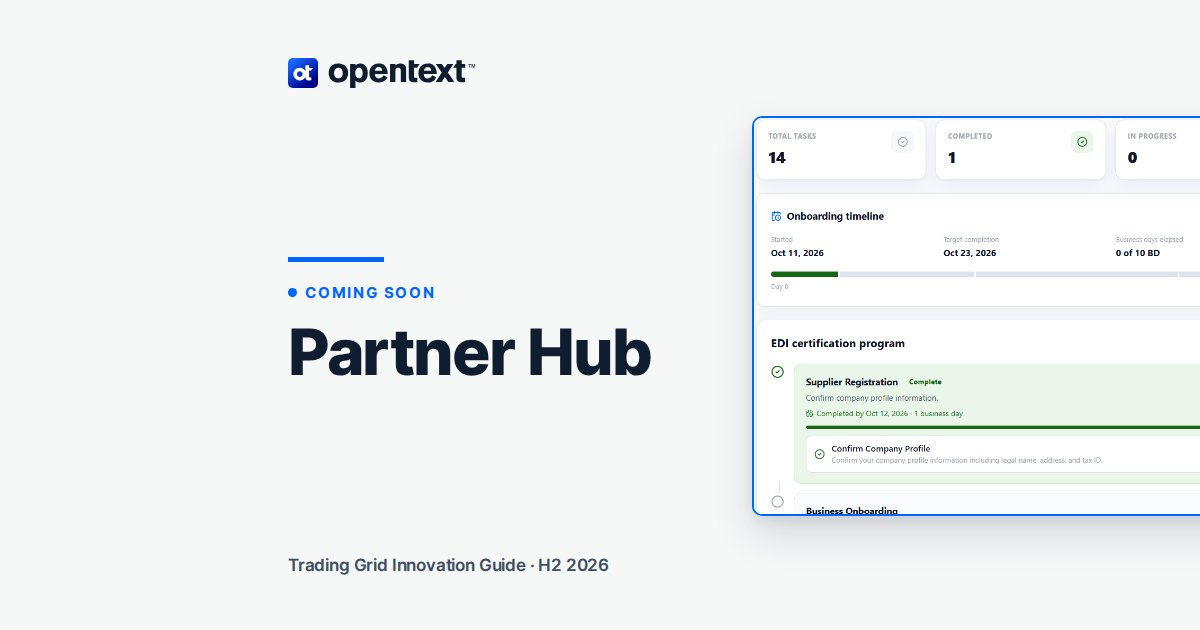
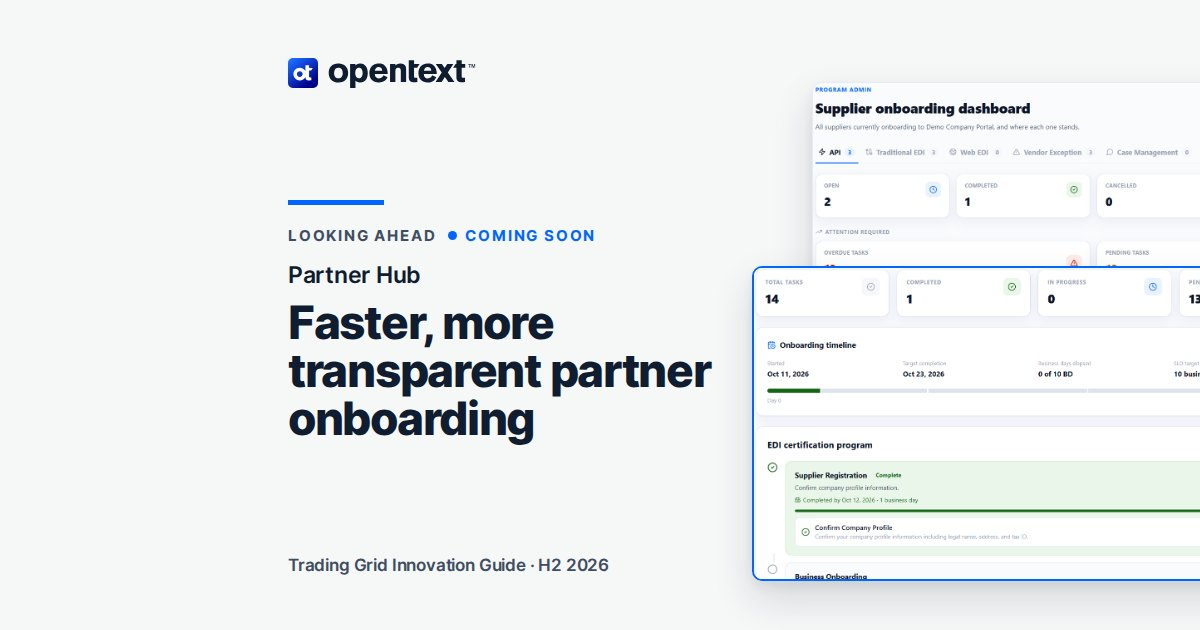
Guide v127: Partner Hub moves to Looking ahead (coming soon belongs there)
Claude-Session: https://claude.ai/code/session_01CjBSvrUCiaFKGcGZvPXhBa

diff --git a/site/index.html b/site/index.html
@@ -2309,7 +2309,7 @@ footer .ftop svg{flex:none}
   <div class="cv-bottom">
     <div class="roles-cv pf3 pf4"><div><a href="#pf-eco">Onboarding and Community Management</a>Invite, onboard, map, activate and manage trading partners.</div><div><a href="#pf-tgcc">Data Visibility and Intelligence</a>Command Center and a family of intelligence apps, powered by Trading Grid Data Platform.</div><div><a href="#pf-ipa">Intelligent Process Applications</a>Connected processes. Intelligent decisions. Better outcomes.</div><div><a href="#pf-aviator">Trading Grid Aviator</a>Shared agents that work across every line of business.</div></div>
     <div class="cv-toc"><span class="label">In this guide</span>
-      <div><a href="#generally-available">Generally available</a><ul><li><a href="#command-center">Command Center Integration Monitor</a></li><li><a href="#tg-insights">Trading Grid Insights</a></li><li><a href="#ga-supplier-hub">Trading Grid Supplier Hub</a></li><li><a href="#ga-compliance-link">Trading Grid Intelligence: Compliance Link</a></li><li><a href="#ga-chargeback-deductions">Trading Grid Intelligence: Chargeback &amp; Deductions</a></li><li><a href="#ga-e-invoicing-navigator">Trading Grid e-Invoicing</a></li><li><a href="#tg-aviator">Trading Grid Aviator</a></li><li><a href="#ga-aviator-iot">OpenText Aviator IoT</a></li><li><a href="#ga-core-collaboration-access">Core Collaboration Access</a></li><li><a href="#ga-quick-connect">Trading Grid Quick Connect</a></li><li><a href="#ga-community-manager">Community Manager</a></li><li><a href="#ga-community-projects">Trading Grid Community Projects</a></li><li><a href="#ga-partner-hub">Partner Hub</a></li><li><a href="#tg-cartographer">Trading Grid Cartographer</a></li></ul></div>
+      <div><a href="#generally-available">Generally available</a><ul><li><a href="#command-center">Command Center Integration Monitor</a></li><li><a href="#tg-insights">Trading Grid Insights</a></li><li><a href="#ga-supplier-hub">Trading Grid Supplier Hub</a></li><li><a href="#ga-compliance-link">Trading Grid Intelligence: Compliance Link</a></li><li><a href="#ga-chargeback-deductions">Trading Grid Intelligence: Chargeback &amp; Deductions</a></li><li><a href="#ga-e-invoicing-navigator">Trading Grid e-Invoicing</a></li><li><a href="#tg-aviator">Trading Grid Aviator</a></li><li><a href="#ga-aviator-iot">OpenText Aviator IoT</a></li><li><a href="#ga-core-collaboration-access">Core Collaboration Access</a></li><li><a href="#ga-quick-connect">Trading Grid Quick Connect</a></li><li><a href="#ga-community-manager">Community Manager</a></li><li><a href="#ga-community-projects">Trading Grid Community Projects</a></li><li><a href="#tg-cartographer">Trading Grid Cartographer</a></li></ul></div>
       <div><a href="#scenarios">Scenarios</a><ul><li><a href="#sg-featured">Featured scenarios</a></li><li><a href="#sg-more">More scenarios</a></li><li><a href="#sg-supply">Supply chain, finance and logistics</a></li><li><a href="#scn-aviator">Trading Grid Aviator scenarios</a></li></ul></div>
       <div><a href="#roadmap">Looking ahead</a><ul><li><a href="#la-portfolio">Pillar direction</a></li><li><a href="#la-previews">Active Incubation &amp; Development</a></li></ul></div>
     </div>
@@ -2696,7 +2696,7 @@ footer .ftop svg{flex:none}
 </div>
 <div class="panel" id="generally-available" role="tabpanel" aria-labelledby="tab-generally-available">
 <div class="wrap layout">
-<aside class="toc"><button type="button" class="toc-head" aria-expanded="false"><span class="tt-d">What's on this page</span><span class="label tt-m">On this page</span><span class="cur"></span><svg class="chev" width="16" height="16" viewBox="0 0 16 16" aria-hidden="true" focusable="false"><path d="M4 6l4 4 4-4" fill="none" stroke="currentColor" stroke-width="1.75" stroke-linecap="round" stroke-linejoin="round"/></svg></button><button type="button" class="toc-share" aria-label="Share this section" title="Share a link to the section on screen"><svg width="20" height="20" viewBox="0 0 20 20" fill="none" stroke="currentColor" stroke-width="1.7" stroke-linecap="round" stroke-linejoin="round" aria-hidden="true" focusable="false"><path d="M10 12.5V3M6.75 6.25 10 3l3.25 3.25"/><path d="M7.25 9H6a1.75 1.75 0 0 0-1.75 1.75v4.5A1.75 1.75 0 0 0 6 17h8a1.75 1.75 0 0 0 1.75-1.75v-4.5A1.75 1.75 0 0 0 14 9h-1.25"/></svg><span class="ts-l">Share</span></button><nav class="toc-body" aria-label="What's on this page"><ul class="toc-l1"><li class="tcat1"><span class="label" id="gcat-app">Applications</span></li><li class="gi open"><div class="row"><a href="#command-center">Command Center Integration Monitor</a><button type="button" class="tog" aria-expanded="true" aria-label="Show Command Center Integration Monitor entries"><svg class="chev" width="16" height="16" viewBox="0 0 16 16" aria-hidden="true" focusable="false"><path d="M4 6l4 4 4-4" fill="none" stroke="currentColor" stroke-width="1.75" stroke-linecap="round" stroke-linejoin="round"/></svg></button></div><ul class="toc-l2"><li><a href="#ccim-daily-digest">Daily digest</a></li><li><a href="#ccim-projections-heatmap">Projections and hourly heat map</a></li><li><a href="#ccim-volume-spike-anomalies">Anomaly detection</a></li><li><a href="#ccim-failed-transaction-anomalies">Failed-transaction anomalies</a></li><li><a href="#ccim-transaction-volume-refine">Transaction volume analysis</a></li><li><a href="#ccim-trading-community">Trading community</a></li><li><a href="#ccim-community-network-graph">Network graph</a></li><li><a href="#ccim-partner-detail-panel">Partner details</a></li><li><a href="#ccim-partner-growth-stats">Trading partner stats</a></li><li><a href="#ccim-document-type-analysis">Document type analysis</a></li><li><a href="#ccim-partner-integration-analysis">Partner integration analysis</a></li><li><a href="#ccim-aviator-assistant">Ask Aviator</a></li><li><a href="#ccim-monitoring-insights">Explain with Aviator</a></li></ul></li><li class="gi"><div class="row"><a href="#tg-insights">Trading Grid Insights</a><button type="button" class="tog" aria-expanded="false" aria-label="Show Trading Grid Insights entries"><svg class="chev" width="16" height="16" viewBox="0 0 16 16" aria-hidden="true" focusable="false"><path d="M4 6l4 4 4-4" fill="none" stroke="currentColor" stroke-width="1.75" stroke-linecap="round" stroke-linejoin="round"/></svg></button></div><ul class="toc-l2"><li><a href="#tgi-dashboards">Configurable dashboards</a></li><li><a href="#tgi-alerts">Self-service alerts</a></li><li><a href="#tgi-reports">Self-service reports</a></li><li><a href="#tgi-transaction-search">Transaction search</a></li><li><a href="#tgi-facets">Facets</a></li><li><a href="#tgi-bulk-redelivery">Bulk redelivery</a></li><li><a href="#tgi-reprocess">Reprocess</a></li><li><a href="#tgi-governed-auto-redelivery">Automated redelivery</a></li><li><a href="#tgi-inline-details">Inline transaction details</a></li><li><a href="#tgi-transaction-detail-page">Transaction detail page</a></li><li><a href="#tgi-processing-flow">Processing Flow</a></li><li><a href="#tgi-related-transactions">Related transactions</a></li><li><a href="#tgi-payload-viewer">Payload viewer</a></li><li><a href="#tgi-business-document-viewer">Business document viewer</a></li><li><a href="#tgi-aviator-error-analysis">Aviator error analysis</a></li><li><a href="#tgi-aviator-payload-analysis">Aviator payload analysis</a></li></ul></li><li class="gi"><div class="row"><a href="#ga-supplier-hub">Trading Grid Supplier Hub</a><button type="button" class="tog" aria-expanded="false" aria-label="Show Trading Grid Supplier Hub entries"><svg class="chev" width="16" height="16" viewBox="0 0 16 16" aria-hidden="true" focusable="false"><path d="M4 6l4 4 4-4" fill="none" stroke="currentColor" stroke-width="1.75" stroke-linecap="round" stroke-linejoin="round"/></svg></button></div><ul class="toc-l2"><li><a href="#tgsh-overview">End-to-end transaction visibility</a></li><li><a href="#tgsh-multi-enterprise">Multi-enterprise processes</a></li></ul></li><li class="gi"><div class="row"><a href="#ga-compliance-link">Trading Grid Intelligence: Compliance Link</a></div></li><li class="gi"><div class="row"><a href="#ga-chargeback-deductions">Trading Grid Intelligence: Chargeback &amp; Deductions</a></div></li><li class="gi"><div class="row"><a href="#ga-e-invoicing-navigator">Trading Grid e-Invoicing</a></div></li><li class="tcat1"><span class="label" id="gcat-dai">Data &amp; AI</span></li><li class="gi"><div class="row"><a href="#tg-aviator">Trading Grid Aviator</a><button type="button" class="tog" aria-expanded="false" aria-label="Show Trading Grid Aviator entries"><svg class="chev" width="16" height="16" viewBox="0 0 16 16" aria-hidden="true" focusable="false"><path d="M4 6l4 4 4-4" fill="none" stroke="currentColor" stroke-width="1.75" stroke-linecap="round" stroke-linejoin="round"/></svg></button></div><ul class="toc-l2"><li><a href="#av-ccim-daily-digest">Daily Summarizer and Explainer Agent</a></li><li><a href="#av-ccim-aviator-assistant">Community Insights Agent</a></li><li><a href="#av-tgi-transaction-search">Transaction Search Agent</a></li><li><a href="#av-tgi-aviator-error-analysis">Error Analysis Agent</a></li><li><a href="#av-tgi-aviator-payload-analysis">Payload Analysis Agent</a></li><li><a href="#tga-knowledge">Knowledge Agent</a></li><li><a href="#tga-support-ticket">Support Ticket Agent</a></li><li><a href="#av-tgc-map-inventory">Map Inventory Intelligence Agent</a></li><li><a href="#av-tgc-map-level">Map-level Intelligence Agent</a></li><li><a href="#av-tgc-rule-explorer">Mapping Rule Explorer Agent</a></li></ul></li><li class="gi"><div class="row"><a href="#ga-aviator-iot">OpenText Aviator IoT</a><button type="button" class="tog" aria-expanded="false" aria-label="Show OpenText Aviator IoT entries"><svg class="chev" width="16" height="16" viewBox="0 0 16 16" aria-hidden="true" focusable="false"><path d="M4 6l4 4 4-4" fill="none" stroke="currentColor" stroke-width="1.75" stroke-linecap="round" stroke-linejoin="round"/></svg></button></div><ul class="toc-l2"><li><a href="#iot-asset-tracking">Returnable asset tracking</a></li><li><a href="#iot-aviator-chat">Aviator chat</a></li><li><a href="#iot-qr-scanning">QR code batch event scanning</a></li></ul></li><li class="tcat1"><span class="label" id="gcat-com">Onboarding &amp; Community Management</span></li><li class="gi"><div class="row"><a href="#ga-core-collaboration-access">Core Collaboration Access</a></div></li><li class="gi"><div class="row"><a href="#ga-quick-connect">Trading Grid Quick Connect</a></div></li><li class="gi"><div class="row"><a href="#ga-community-manager">Community Manager</a></div></li><li class="gi"><div class="row"><a href="#ga-community-projects">Trading Grid Community Projects</a></div></li><li class="gi"><div class="row"><a href="#ga-partner-hub">Partner Hub</a><button type="button" class="tog" aria-expanded="false" aria-label="Show Partner Hub entries"><svg class="chev" width="16" height="16" viewBox="0 0 16 16" aria-hidden="true" focusable="false"><path d="M4 6l4 4 4-4" fill="none" stroke="currentColor" stroke-width="1.75" stroke-linecap="round" stroke-linejoin="round"/></svg></button></div><ul class="toc-l2"><li><a href="#tgph-onboarding">Faster, more transparent partner onboarding</a></li></ul></li><li class="gi"><div class="row"><a href="#tg-cartographer">Trading Grid Cartographer</a><button type="button" class="tog" aria-expanded="false" aria-label="Show Trading Grid Cartographer entries"><svg class="chev" width="16" height="16" viewBox="0 0 16 16" aria-hidden="true" focusable="false"><path d="M4 6l4 4 4-4" fill="none" stroke="currentColor" stroke-width="1.75" stroke-linecap="round" stroke-linejoin="round"/></svg></button></div><ul class="toc-l2"><li><a href="#tgc-map-inventory">Map inventory intelligence</a></li><li><a href="#tgc-map-level">Map-level intelligence</a></li><li><a href="#tgc-rule-explorer">Mapping rule explorer</a></li><li><a href="#tgc-map-list">Map list and search</a></li><li><a href="#tgc-metadata">Map metadata and properties</a></li><li><a href="#tgc-relationships">Trading relationship list</a></li><li><a href="#tgc-export">Map documentation export</a></li><li><a href="#tgc-testing">Map testing with your own data</a></li><li><a href="#tgc-xref">Cross-reference table view</a></li><li><a href="#tgc-comments">Comments on all maps</a></li><li><a href="#tgc-tree">Map tree view</a></li><li><a href="#tgc-parse">Parse and translate</a></li><li><a href="#tgc-versions">Version history</a></li><li><a href="#tgc-annotations">Map annotations</a></li></ul></li></ul></nav></aside>
+<aside class="toc"><button type="button" class="toc-head" aria-expanded="false"><span class="tt-d">What's on this page</span><span class="label tt-m">On this page</span><span class="cur"></span><svg class="chev" width="16" height="16" viewBox="0 0 16 16" aria-hidden="true" focusable="false"><path d="M4 6l4 4 4-4" fill="none" stroke="currentColor" stroke-width="1.75" stroke-linecap="round" stroke-linejoin="round"/></svg></button><button type="button" class="toc-share" aria-label="Share this section" title="Share a link to the section on screen"><svg width="20" height="20" viewBox="0 0 20 20" fill="none" stroke="currentColor" stroke-width="1.7" stroke-linecap="round" stroke-linejoin="round" aria-hidden="true" focusable="false"><path d="M10 12.5V3M6.75 6.25 10 3l3.25 3.25"/><path d="M7.25 9H6a1.75 1.75 0 0 0-1.75 1.75v4.5A1.75 1.75 0 0 0 6 17h8a1.75 1.75 0 0 0 1.75-1.75v-4.5A1.75 1.75 0 0 0 14 9h-1.25"/></svg><span class="ts-l">Share</span></button><nav class="toc-body" aria-label="What's on this page"><ul class="toc-l1"><li class="tcat1"><span class="label" id="gcat-app">Applications</span></li><li class="gi open"><div class="row"><a href="#command-center">Command Center Integration Monitor</a><button type="button" class="tog" aria-expanded="true" aria-label="Show Command Center Integration Monitor entries"><svg class="chev" width="16" height="16" viewBox="0 0 16 16" aria-hidden="true" focusable="false"><path d="M4 6l4 4 4-4" fill="none" stroke="currentColor" stroke-width="1.75" stroke-linecap="round" stroke-linejoin="round"/></svg></button></div><ul class="toc-l2"><li><a href="#ccim-daily-digest">Daily digest</a></li><li><a href="#ccim-projections-heatmap">Projections and hourly heat map</a></li><li><a href="#ccim-volume-spike-anomalies">Anomaly detection</a></li><li><a href="#ccim-failed-transaction-anomalies">Failed-transaction anomalies</a></li><li><a href="#ccim-transaction-volume-refine">Transaction volume analysis</a></li><li><a href="#ccim-trading-community">Trading community</a></li><li><a href="#ccim-community-network-graph">Network graph</a></li><li><a href="#ccim-partner-detail-panel">Partner details</a></li><li><a href="#ccim-partner-growth-stats">Trading partner stats</a></li><li><a href="#ccim-document-type-analysis">Document type analysis</a></li><li><a href="#ccim-partner-integration-analysis">Partner integration analysis</a></li><li><a href="#ccim-aviator-assistant">Ask Aviator</a></li><li><a href="#ccim-monitoring-insights">Explain with Aviator</a></li></ul></li><li class="gi"><div class="row"><a href="#tg-insights">Trading Grid Insights</a><button type="button" class="tog" aria-expanded="false" aria-label="Show Trading Grid Insights entries"><svg class="chev" width="16" height="16" viewBox="0 0 16 16" aria-hidden="true" focusable="false"><path d="M4 6l4 4 4-4" fill="none" stroke="currentColor" stroke-width="1.75" stroke-linecap="round" stroke-linejoin="round"/></svg></button></div><ul class="toc-l2"><li><a href="#tgi-dashboards">Configurable dashboards</a></li><li><a href="#tgi-alerts">Self-service alerts</a></li><li><a href="#tgi-reports">Self-service reports</a></li><li><a href="#tgi-transaction-search">Transaction search</a></li><li><a href="#tgi-facets">Facets</a></li><li><a href="#tgi-bulk-redelivery">Bulk redelivery</a></li><li><a href="#tgi-reprocess">Reprocess</a></li><li><a href="#tgi-governed-auto-redelivery">Automated redelivery</a></li><li><a href="#tgi-inline-details">Inline transaction details</a></li><li><a href="#tgi-transaction-detail-page">Transaction detail page</a></li><li><a href="#tgi-processing-flow">Processing Flow</a></li><li><a href="#tgi-related-transactions">Related transactions</a></li><li><a href="#tgi-payload-viewer">Payload viewer</a></li><li><a href="#tgi-business-document-viewer">Business document viewer</a></li><li><a href="#tgi-aviator-error-analysis">Aviator error analysis</a></li><li><a href="#tgi-aviator-payload-analysis">Aviator payload analysis</a></li></ul></li><li class="gi"><div class="row"><a href="#ga-supplier-hub">Trading Grid Supplier Hub</a><button type="button" class="tog" aria-expanded="false" aria-label="Show Trading Grid Supplier Hub entries"><svg class="chev" width="16" height="16" viewBox="0 0 16 16" aria-hidden="true" focusable="false"><path d="M4 6l4 4 4-4" fill="none" stroke="currentColor" stroke-width="1.75" stroke-linecap="round" stroke-linejoin="round"/></svg></button></div><ul class="toc-l2"><li><a href="#tgsh-overview">End-to-end transaction visibility</a></li><li><a href="#tgsh-multi-enterprise">Multi-enterprise processes</a></li></ul></li><li class="gi"><div class="row"><a href="#ga-compliance-link">Trading Grid Intelligence: Compliance Link</a></div></li><li class="gi"><div class="row"><a href="#ga-chargeback-deductions">Trading Grid Intelligence: Chargeback &amp; Deductions</a></div></li><li class="gi"><div class="row"><a href="#ga-e-invoicing-navigator">Trading Grid e-Invoicing</a></div></li><li class="tcat1"><span class="label" id="gcat-dai">Data &amp; AI</span></li><li class="gi"><div class="row"><a href="#tg-aviator">Trading Grid Aviator</a><button type="button" class="tog" aria-expanded="false" aria-label="Show Trading Grid Aviator entries"><svg class="chev" width="16" height="16" viewBox="0 0 16 16" aria-hidden="true" focusable="false"><path d="M4 6l4 4 4-4" fill="none" stroke="currentColor" stroke-width="1.75" stroke-linecap="round" stroke-linejoin="round"/></svg></button></div><ul class="toc-l2"><li><a href="#av-ccim-daily-digest">Daily Summarizer and Explainer Agent</a></li><li><a href="#av-ccim-aviator-assistant">Community Insights Agent</a></li><li><a href="#av-tgi-transaction-search">Transaction Search Agent</a></li><li><a href="#av-tgi-aviator-error-analysis">Error Analysis Agent</a></li><li><a href="#av-tgi-aviator-payload-analysis">Payload Analysis Agent</a></li><li><a href="#tga-knowledge">Knowledge Agent</a></li><li><a href="#tga-support-ticket">Support Ticket Agent</a></li><li><a href="#av-tgc-map-inventory">Map Inventory Intelligence Agent</a></li><li><a href="#av-tgc-map-level">Map-level Intelligence Agent</a></li><li><a href="#av-tgc-rule-explorer">Mapping Rule Explorer Agent</a></li></ul></li><li class="gi"><div class="row"><a href="#ga-aviator-iot">OpenText Aviator IoT</a><button type="button" class="tog" aria-expanded="false" aria-label="Show OpenText Aviator IoT entries"><svg class="chev" width="16" height="16" viewBox="0 0 16 16" aria-hidden="true" focusable="false"><path d="M4 6l4 4 4-4" fill="none" stroke="currentColor" stroke-width="1.75" stroke-linecap="round" stroke-linejoin="round"/></svg></button></div><ul class="toc-l2"><li><a href="#iot-asset-tracking">Returnable asset tracking</a></li><li><a href="#iot-aviator-chat">Aviator chat</a></li><li><a href="#iot-qr-scanning">QR code batch event scanning</a></li></ul></li><li class="tcat1"><span class="label" id="gcat-com">Onboarding &amp; Community Management</span></li><li class="gi"><div class="row"><a href="#ga-core-collaboration-access">Core Collaboration Access</a></div></li><li class="gi"><div class="row"><a href="#ga-quick-connect">Trading Grid Quick Connect</a></div></li><li class="gi"><div class="row"><a href="#ga-community-manager">Community Manager</a></div></li><li class="gi"><div class="row"><a href="#ga-community-projects">Trading Grid Community Projects</a></div></li><li class="gi"><div class="row"><a href="#tg-cartographer">Trading Grid Cartographer</a><button type="button" class="tog" aria-expanded="false" aria-label="Show Trading Grid Cartographer entries"><svg class="chev" width="16" height="16" viewBox="0 0 16 16" aria-hidden="true" focusable="false"><path d="M4 6l4 4 4-4" fill="none" stroke="currentColor" stroke-width="1.75" stroke-linecap="round" stroke-linejoin="round"/></svg></button></div><ul class="toc-l2"><li><a href="#tgc-map-inventory">Map inventory intelligence</a></li><li><a href="#tgc-map-level">Map-level intelligence</a></li><li><a href="#tgc-rule-explorer">Mapping rule explorer</a></li><li><a href="#tgc-map-list">Map list and search</a></li><li><a href="#tgc-metadata">Map metadata and properties</a></li><li><a href="#tgc-relationships">Trading relationship list</a></li><li><a href="#tgc-export">Map documentation export</a></li><li><a href="#tgc-testing">Map testing with your own data</a></li><li><a href="#tgc-xref">Cross-reference table view</a></li><li><a href="#tgc-comments">Comments on all maps</a></li><li><a href="#tgc-tree">Map tree view</a></li><li><a href="#tgc-parse">Parse and translate</a></li><li><a href="#tgc-versions">Version history</a></li><li><a href="#tgc-annotations">Map annotations</a></li></ul></li></ul></nav></aside>
 <div class="content">
 <div class="print-title"><h2>Generally available as of H2 2026</h2></div>
 
@@ -3639,29 +3639,6 @@ footer .ftop svg{flex:none}
 </article>
 </section>
 
-<section class="sec" id="ga-partner-hub">
-  <h2>Partner Hub</h2>
-  <p class="sec-sum">A configurable onboarding and community management platform that guides suppliers and trading partners from first invitation to live trading and extends to other partner processes such as cases, deductions and disputes with full visibility for clients and partners.</p>
-
-<article class="inn" id="tgph-onboarding" data-soon="1">
-  <div class="hd">
-    <div class="label lbl">Partner Hub</div>
-    <div class="ttl"><h3>Faster, more transparent partner onboarding</h3><span class="ga pv">Coming soon</span></div>
-    <p class="deck">From first invitation to live trading, with full visibility for clients and partners.</p>
-  </div>
-  <figure class="gal">
-    <button type="button" class="zoom" data-src="img/2026-h2/tgph-partner-view.webp" aria-label="View full size: A partner’s view: tasks by status, the onboarding timeline against its SLO target, and each program phase with its tasks."><img src="img/2026-h2/tgph-partner-view.webp" width="1356" height="748" alt="Partner Hub partner view: total, completed, in progress and pending task counts; an onboarding timeline on track, started Oct 11, 2026 with a target of Oct 23, 2026 and a 10 business day SLO target; an EDI certification program with Supplier Registration complete and its Confirm Company Profile task, and Business Onboarding next."><span class="zi"><svg width="16" height="16" viewBox="0 0 16 16" aria-hidden="true" focusable="false"><path d="M9.5 2.5h4v4M13.5 2.5 9 7M6.5 13.5h-4v-4M2.5 13.5 7 9" fill="none" stroke="currentColor" stroke-width="1.5" stroke-linecap="round" stroke-linejoin="round"/></svg></span></button>
-    <figcaption aria-live="polite"><span class="stp">1 of 2</span> <span class="cap">A partner’s view: tasks by status, the onboarding timeline against its SLO target, and each program phase with its tasks.</span> <button type="button" class="vfs" tabindex="-1" aria-hidden="true">View full size</button></figcaption>
-    <div class="thumbs" role="group" aria-label="More screenshots of Faster, more transparent partner onboarding"><button type="button" class="th" data-i="0" data-src="img/2026-h2/tgph-partner-view.webp" data-w="1356" data-h="748" data-alt="Partner Hub partner view: total, completed, in progress and pending task counts; an onboarding timeline on track, started Oct 11, 2026 with a target of Oct 23, 2026 and a 10 business day SLO target; an EDI certification program with Supplier Registration complete and its Confirm Company Profile task, and Business Onboarding next." data-cap="A partner’s view: tasks by status, the onboarding timeline against its SLO target, and each program phase with its tasks." data-short="Partner view" aria-label="Show screenshot 1 of 2: Partner view" hidden><img src="img/2026-h2/tgph-partner-view.webp" width="1356" height="748" alt="" loading="lazy"><span class="tl"><span class="n">1</span>Partner view</span></button><button type="button" class="th" data-i="1" data-src="img/2026-h2/tgph-program.webp" data-w="1348" data-h="727" data-alt="Partner Hub program admin view, Supplier onboarding dashboard for a demo company portal: API, Traditional EDI, Web EDI, Vendor Exception and Case Management tabs; open, completed, cancelled and all counts; attention required with overdue and pending tasks; phase status and program status bars." data-cap="Supplier onboarding dashboard: every supplier onboarding to the client’s portal by connection type, with open, completed and cancelled counts, overdue and pending tasks, and phase and program status." data-short="Program dashboard" aria-label="Show screenshot 2 of 2: Program dashboard"><img src="img/2026-h2/tgph-program.webp" width="1348" height="727" alt="" loading="lazy"><span class="tl"><span class="n">2</span>Program dashboard</span></button></div>
-  </figure>
-  <div class="txt">
-    <p>Onboarding today is manual and opaque. Partners rely on separate systems and on staff being available to configure, test and activate a connection. There is no self-service path and no shared view of status.</p>
-    <ul><li><b>Configurable workflows:</b> program-specific forms, phases and tasks capture exactly the information each process needs. Nothing is hardcoded, so the same builder that runs supplier onboarding can also structure dispute resolution, re-verification or other multi-step partner processes.</li><li><b>Automated provisioning:</b> once forms are submitted, systems and access are set up automatically, so testing starts right away instead of waiting in a manual queue.</li><li><b>Self-service testing:</b> partners run connectivity tests and check sample data field by field against program requirements, powered by Trading Grid Intelligence. No support ticket is needed.</li><li><b>SLO tracking:</b> configurable targets are split across phases. Stages at risk are flagged before they slip, and program owners see overdue counts across every open request.</li><li><b>Client and partner dashboards:</b> suppliers and client teams work from the same data. Partners track their own progress and tasks, and clients see status across the whole program.</li><li><b>AI assistance with Trading Grid Aviator:</b> an assistant on every screen helps with forms, testing and your business’s onboarding requirements.</li></ul>
-    <p>Partner Hub starts with onboarding but isn’t limited to it. In any workflow, individual steps can be automated using business rules or REST API calls to OpenText, client or third-party systems where they’re available, while approvals and signoffs stay with the right people. Built-in approval tasks, document signing within the workflow and encryption of sensitive information round out the platform, shifting staff time from manual work to oversight.</p>
-  </div>
-</article>
-</section>
-
 <section class="sec" id="tg-cartographer">
   <h2>Trading Grid Cartographer</h2>
   <p class="sec-sum">Where clients find, understand, test and maintain their maps. Aviator answers questions about the inventory, a single map or a single rule; the map list, metadata, trading relationships, testing, cross-reference tables and comments work for every map; and the tree view, parse and translate, version history and annotations are built for Contivo maps.</p>
@@ -4074,7 +4051,7 @@ footer .ftop svg{flex:none}
 </div>
 <div class="panel" id="roadmap" role="tabpanel" aria-labelledby="tab-roadmap" hidden>
 <div class="wrap layout">
-<aside class="toc"><button type="button" class="toc-head" aria-expanded="false"><span class="tt-d">What's on this page</span><span class="label tt-m">On this page</span><span class="cur"></span><svg class="chev" width="16" height="16" viewBox="0 0 16 16" aria-hidden="true" focusable="false"><path d="M4 6l4 4 4-4" fill="none" stroke="currentColor" stroke-width="1.75" stroke-linecap="round" stroke-linejoin="round"/></svg></button><button type="button" class="toc-share" aria-label="Share this section" title="Share a link to the section on screen"><svg width="20" height="20" viewBox="0 0 20 20" fill="none" stroke="currentColor" stroke-width="1.7" stroke-linecap="round" stroke-linejoin="round" aria-hidden="true" focusable="false"><path d="M10 12.5V3M6.75 6.25 10 3l3.25 3.25"/><path d="M7.25 9H6a1.75 1.75 0 0 0-1.75 1.75v4.5A1.75 1.75 0 0 0 6 17h8a1.75 1.75 0 0 0 1.75-1.75v-4.5A1.75 1.75 0 0 0 14 9h-1.25"/></svg><span class="ts-l">Share</span></button><nav class="toc-body" aria-label="What's on this page"><ul class="toc-l1"><li class="gi"><div class="row"><a href="#la-portfolio">Pillar direction</a></div></li><li class="gi open" data-pinned="1"><div class="row"><a href="#la-previews">Active Incubation &amp; Development</a><button type="button" class="tog" aria-expanded="true" aria-label="Show Active Incubation &amp; Development entries"><svg class="chev" width="16" height="16" viewBox="0 0 16 16" aria-hidden="true" focusable="false"><path d="M4 6l4 4 4-4" fill="none" stroke="currentColor" stroke-width="1.75" stroke-linecap="round" stroke-linejoin="round"/></svg></button></div><ul class="toc-l2 toc-cats"><li class="tcat"><span class="label" id="tcat-app">Applications</span><ul aria-labelledby="tcat-app"><li><a href="#pv-ccpm">Command Center Performance Monitor</a></li><li><a href="#pv-tgasn">Trading Grid ASN Intelligence</a></li><li><a href="#pv-tgsh">Trading Grid Supplier Hub</a></li></ul></li><li class="tcat"><span class="label" id="tcat-ana">Agentic Business Intelligence</span><ul aria-labelledby="tcat-ana"><li><a href="#pv-tgdi">Trading Grid Decisions Intelligence</a></li></ul></li><li class="tcat"><span class="label" id="tcat-dai">Data and AI</span><ul aria-labelledby="tcat-dai"><li><a href="#pv-tgde">Trading Grid Data Explorer</a></li><li><a href="#pv-tgcs">Trading Grid Context Services</a></li><li><a href="#pv-tga">Trading Grid Aviator</a></li><li><a href="#pv-iot">OpenText Aviator IoT</a></li></ul></li></ul></li></ul></nav></aside>
+<aside class="toc"><button type="button" class="toc-head" aria-expanded="false"><span class="tt-d">What's on this page</span><span class="label tt-m">On this page</span><span class="cur"></span><svg class="chev" width="16" height="16" viewBox="0 0 16 16" aria-hidden="true" focusable="false"><path d="M4 6l4 4 4-4" fill="none" stroke="currentColor" stroke-width="1.75" stroke-linecap="round" stroke-linejoin="round"/></svg></button><button type="button" class="toc-share" aria-label="Share this section" title="Share a link to the section on screen"><svg width="20" height="20" viewBox="0 0 20 20" fill="none" stroke="currentColor" stroke-width="1.7" stroke-linecap="round" stroke-linejoin="round" aria-hidden="true" focusable="false"><path d="M10 12.5V3M6.75 6.25 10 3l3.25 3.25"/><path d="M7.25 9H6a1.75 1.75 0 0 0-1.75 1.75v4.5A1.75 1.75 0 0 0 6 17h8a1.75 1.75 0 0 0 1.75-1.75v-4.5A1.75 1.75 0 0 0 14 9h-1.25"/></svg><span class="ts-l">Share</span></button><nav class="toc-body" aria-label="What's on this page"><ul class="toc-l1"><li class="gi"><div class="row"><a href="#la-portfolio">Pillar direction</a></div></li><li class="gi open" data-pinned="1"><div class="row"><a href="#la-previews">Active Incubation &amp; Development</a><button type="button" class="tog" aria-expanded="true" aria-label="Show Active Incubation &amp; Development entries"><svg class="chev" width="16" height="16" viewBox="0 0 16 16" aria-hidden="true" focusable="false"><path d="M4 6l4 4 4-4" fill="none" stroke="currentColor" stroke-width="1.75" stroke-linecap="round" stroke-linejoin="round"/></svg></button></div><ul class="toc-l2 toc-cats"><li class="tcat"><span class="label" id="tcat-app">Applications</span><ul aria-labelledby="tcat-app"><li><a href="#pv-ccpm">Command Center Performance Monitor</a></li><li><a href="#pv-tgasn">Trading Grid ASN Intelligence</a></li><li><a href="#pv-tgsh">Trading Grid Supplier Hub</a></li><li><a href="#pv-tgph">Partner Hub</a></li></ul></li><li class="tcat"><span class="label" id="tcat-ana">Agentic Business Intelligence</span><ul aria-labelledby="tcat-ana"><li><a href="#pv-tgdi">Trading Grid Decisions Intelligence</a></li></ul></li><li class="tcat"><span class="label" id="tcat-dai">Data and AI</span><ul aria-labelledby="tcat-dai"><li><a href="#pv-tgde">Trading Grid Data Explorer</a></li><li><a href="#pv-tgcs">Trading Grid Context Services</a></li><li><a href="#pv-tga">Trading Grid Aviator</a></li><li><a href="#pv-iot">OpenText Aviator IoT</a></li></ul></li></ul></li></ul></nav></aside>
 <div class="content">
 <section class="sec" id="la-portfolio">
   <h2 class="part">Looking ahead</h2>
@@ -4175,6 +4152,24 @@ footer .ftop svg{flex:none}
   <div class="txt">
     <p>Trading Grid Supplier Hub will provide a complete view of the shipment packing structure and the items in it.</p>
     <ul><li><b>Package and line views:</b> pivot between the packages and the shipment lines.</li><li><b>Packing hierarchy:</b> view and maintain inner- and outer-package relationships, from containers and pallets down to cartons and the items they hold.</li><li><b>Filter for missing attributes:</b> highlight missing data to reduce errors.</li></ul>
+  </div>
+</article>
+<article class="inn pv" id="pv-tgph">
+  <div class="hd">
+    <div class="label lbl">Partner Hub</div>
+    <div class="ttl"><h3>Faster, more transparent partner onboarding</h3><span class="ga pv">Coming soon</span></div>
+    <p class="deck">From first invitation to live trading, with full visibility for clients and partners.</p>
+  </div>
+  <figure class="gal">
+    <button type="button" class="zoom" data-src="img/2026-h2/tgph-partner-view.webp" aria-label="View full size: A partner’s view: tasks by status, the onboarding timeline against its SLO target, and each program phase with its tasks."><img src="img/2026-h2/tgph-partner-view.webp" width="1356" height="748" alt="Partner Hub partner view: total, completed, in progress and pending task counts; an onboarding timeline on track, started Oct 11, 2026 with a target of Oct 23, 2026 and a 10 business day SLO target; an EDI certification program with Supplier Registration complete and its Confirm Company Profile task, and Business Onboarding next."><span class="zi"><svg width="16" height="16" viewBox="0 0 16 16" aria-hidden="true" focusable="false"><path d="M9.5 2.5h4v4M13.5 2.5 9 7M6.5 13.5h-4v-4M2.5 13.5 7 9" fill="none" stroke="currentColor" stroke-width="1.5" stroke-linecap="round" stroke-linejoin="round"/></svg></span></button>
+    <figcaption aria-live="polite"><span class="stp">1 of 2</span> <span class="cap">A partner’s view: tasks by status, the onboarding timeline against its SLO target, and each program phase with its tasks.</span> <button type="button" class="vfs" tabindex="-1" aria-hidden="true">View full size</button></figcaption>
+    <div class="thumbs" role="group" aria-label="More screenshots of Faster, more transparent partner onboarding"><button type="button" class="th" data-i="0" data-src="img/2026-h2/tgph-partner-view.webp" data-w="1356" data-h="748" data-alt="Partner Hub partner view: total, completed, in progress and pending task counts; an onboarding timeline on track, started Oct 11, 2026 with a target of Oct 23, 2026 and a 10 business day SLO target; an EDI certification program with Supplier Registration complete and its Confirm Company Profile task, and Business Onboarding next." data-cap="A partner’s view: tasks by status, the onboarding timeline against its SLO target, and each program phase with its tasks." data-short="Partner view" aria-label="Show screenshot 1 of 2: Partner view" hidden><img src="img/2026-h2/tgph-partner-view.webp" width="1356" height="748" alt="" loading="lazy"><span class="tl"><span class="n">1</span>Partner view</span></button><button type="button" class="th" data-i="1" data-src="img/2026-h2/tgph-program.webp" data-w="1348" data-h="727" data-alt="Partner Hub program admin view, Supplier onboarding dashboard for a demo company portal: API, Traditional EDI, Web EDI, Vendor Exception and Case Management tabs; open, completed, cancelled and all counts; attention required with overdue and pending tasks; phase status and program status bars." data-cap="Supplier onboarding dashboard: every supplier onboarding to the client’s portal by connection type, with open, completed and cancelled counts, overdue and pending tasks, and phase and program status." data-short="Program dashboard" aria-label="Show screenshot 2 of 2: Program dashboard"><img src="img/2026-h2/tgph-program.webp" width="1348" height="727" alt="" loading="lazy"><span class="tl"><span class="n">2</span>Program dashboard</span></button></div>
+  </figure>
+  <div class="txt">
+    <p>A configurable onboarding and community management platform that guides suppliers and trading partners from first invitation to live trading and extends to other partner processes such as cases, deductions and disputes with full visibility for clients and partners.</p>
+    <p>Onboarding today is manual and opaque. Partners rely on separate systems and on staff being available to configure, test and activate a connection. There is no self-service path and no shared view of status.</p>
+    <ul><li><b>Configurable workflows:</b> program-specific forms, phases and tasks capture exactly the information each process needs. Nothing is hardcoded, so the same builder that runs supplier onboarding can also structure dispute resolution, re-verification or other multi-step partner processes.</li><li><b>Automated provisioning:</b> once forms are submitted, systems and access are set up automatically, so testing starts right away instead of waiting in a manual queue.</li><li><b>Self-service testing:</b> partners run connectivity tests and check sample data field by field against program requirements, powered by Trading Grid Intelligence. No support ticket is needed.</li><li><b>SLO tracking:</b> configurable targets are split across phases. Stages at risk are flagged before they slip, and program owners see overdue counts across every open request.</li><li><b>Client and partner dashboards:</b> suppliers and client teams work from the same data. Partners track their own progress and tasks, and clients see status across the whole program.</li><li><b>AI assistance with Trading Grid Aviator:</b> an assistant on every screen helps with forms, testing and your business’s onboarding requirements.</li></ul>
+    <p>Partner Hub starts with onboarding but isn’t limited to it. In any workflow, individual steps can be automated using business rules or REST API calls to OpenText, client or third-party systems where they’re available, while approvals and signoffs stay with the right people. Built-in approval tasks, document signing within the workflow and encryption of sensitive information round out the platform, shifting staff time from manual work to oversight.</p>
   </div>
 </article>
 <article class="inn pv" id="pv-tgdi">
@@ -5282,7 +5277,7 @@ dlg.addEventListener('close',function(){st.innerHTML='';show(zi);op.focus({preve
     });
   });
 })();</script>
-<script type="application/json" id="tg-share">{"site":"https://tg-innovation-guide.onrender.com","products":{"command-center":"integration-monitor","tg-insights":"insights","ga-supplier-hub":"supplier-hub","ga-compliance-link":"compliance-link","ga-chargeback-deductions":"chargeback-deductions","ga-e-invoicing-navigator":"e-invoicing","tg-aviator":"aviator","ga-aviator-iot":"aviator-iot","ga-core-collaboration-access":"core-collaboration-access","ga-quick-connect":"quick-connect","ga-community-manager":"community-manager","ga-community-projects":"community-projects","ga-partner-hub":"partner-hub","tg-cartographer":"cartographer","pv-ccpm":"performance-monitor","pv-tgasn":"asn-intelligence","pv-tgsh":"shipment-packing-visibility","pv-tgdi":"decisions-intelligence","pv-tgde":"data-explorer","pv-tgcs":"context-services","pv-tga":"aviator-roadmap"}}</script>
+<script type="application/json" id="tg-share">{"site":"https://tg-innovation-guide.onrender.com","products":{"command-center":"integration-monitor","tg-insights":"insights","ga-supplier-hub":"supplier-hub","ga-compliance-link":"compliance-link","ga-chargeback-deductions":"chargeback-deductions","ga-e-invoicing-navigator":"e-invoicing","tg-aviator":"aviator","ga-aviator-iot":"aviator-iot","ga-core-collaboration-access":"core-collaboration-access","ga-quick-connect":"quick-connect","ga-community-manager":"community-manager","ga-community-projects":"community-projects","tg-cartographer":"cartographer","pv-ccpm":"performance-monitor","pv-tgasn":"asn-intelligence","pv-tgsh":"shipment-packing-visibility","pv-tgph":"partner-hub","pv-tgdi":"decisions-intelligence","pv-tgde":"data-explorer","pv-tgcs":"context-services","pv-tga":"aviator-roadmap"}}</script>
 <script>/* Share (owner, Oct 10): the On this page Share button. Inside a product: its share link (its own preview card), opening
    at the entry on screen. Elsewhere: the guide's link at that section. Share sheet on touch screens, copy on computers. */(function(){
   var cfg;try{cfg=JSON.parse(document.getElementById('tg-share').textContent);}catch(e){return;}

diff --git a/site/s/partner-hub/index.html b/site/s/partner-hub/index.html
@@ -1,4 +1,4 @@
-<!doctype html><html lang="en"><head><meta charset="utf-8"><meta name="viewport" content="width=device-width,initial-scale=1"><!--fav--><link rel="icon" href="/img/favicon/favicon.ico" sizes="any"><link rel="icon" href="/img/favicon/ot-mark.svg" type="image/svg+xml"><link rel="apple-touch-icon" href="/img/favicon/apple-touch-icon.png"><!--/fav--><title>Partner Hub · Trading Grid Innovation Guide H2 2026</title><meta name="description" content="Coming soon. A configurable onboarding and community management platform that guides suppliers and trading partners from first invitation to live trading and extends to other partner processes such as cases, deductions and disputes…"><meta property="og:type" content="website"><meta property="og:site_name" content="Trading Grid Innovation Guide"><meta property="og:title" content="Partner Hub · Trading Grid Innovation Guide H2 2026"><meta property="og:description" content="Coming soon. A configurable onboarding and community management platform that guides suppliers and trading partners from first invitation to live trading and extends to other partner processes such as cases, deductions and disputes…"><meta property="og:url" content="https://tg-innovation-guide.onrender.com/s/partner-hub/"><meta property="og:image" content="https://tg-innovation-guide.onrender.com/share/partner-hub.jpg?v=cd035ffb"><meta property="og:image:type" content="image/jpeg"><meta property="og:image:width" content="1200"><meta property="og:image:height" content="630"><meta property="og:image:alt" content="Partner Hub, in the Trading Grid Innovation Guide H2 2026"><meta name="twitter:card" content="summary_large_image"><meta name="twitter:title" content="Partner Hub · Trading Grid Innovation Guide H2 2026"><meta name="twitter:description" content="Coming soon. A configurable onboarding and community management platform that guides suppliers and trading partners from first invitation to live trading and extends to other partner processes such as cases, deductions and disputes…"><meta name="twitter:image" content="https://tg-innovation-guide.onrender.com/share/partner-hub.jpg?v=cd035ffb"><meta name="robots" content="noindex">
-<script>(function(){var u=navigator.userAgent||"";if(/bot|crawler|spider|facebookexternalhit|Facebot|Twitterbot|LinkedInBot|WhatsApp|Slackbot|TelegramBot|Discordbot|SkypeUriPreview|MicrosoftPreview|Iframely|Embedly|redditbot|Pinterest|Applebot/i.test(u))return;var h=location.hash&&location.hash.length>1?location.hash:"#ga-partner-hub";location.replace("/"+h);})();</script>
+<!doctype html><html lang="en"><head><meta charset="utf-8"><meta name="viewport" content="width=device-width,initial-scale=1"><!--fav--><link rel="icon" href="/img/favicon/favicon.ico" sizes="any"><link rel="icon" href="/img/favicon/ot-mark.svg" type="image/svg+xml"><link rel="apple-touch-icon" href="/img/favicon/apple-touch-icon.png"><!--/fav--><title>Partner Hub: Faster, more transparent partner onboarding · Trading Grid Innovation Guide H2 2026</title><meta name="description" content="Looking ahead, Coming soon. From first invitation to live trading, with full visibility for clients and partners."><meta property="og:type" content="website"><meta property="og:site_name" content="Trading Grid Innovation Guide"><meta property="og:title" content="Partner Hub: Faster, more transparent partner onboarding · Trading Grid Innovation Guide H2 2026"><meta property="og:description" content="Looking ahead, Coming soon. From first invitation to live trading, with full visibility for clients and partners."><meta property="og:url" content="https://tg-innovation-guide.onrender.com/s/partner-hub/"><meta property="og:image" content="https://tg-innovation-guide.onrender.com/share/partner-hub.jpg?v=76ca783a"><meta property="og:image:type" content="image/jpeg"><meta property="og:image:width" content="1200"><meta property="og:image:height" content="630"><meta property="og:image:alt" content="Partner Hub: Faster, more transparent partner onboarding, in the Trading Grid Innovation Guide H2 2026"><meta name="twitter:card" content="summary_large_image"><meta name="twitter:title" content="Partner Hub: Faster, more transparent partner onboarding · Trading Grid Innovation Guide H2 2026"><meta name="twitter:description" content="Looking ahead, Coming soon. From first invitation to live trading, with full visibility for clients and partners."><meta name="twitter:image" content="https://tg-innovation-guide.onrender.com/share/partner-hub.jpg?v=76ca783a"><meta name="robots" content="noindex">
+<script>(function(){var u=navigator.userAgent||"";if(/bot|crawler|spider|facebookexternalhit|Facebot|Twitterbot|LinkedInBot|WhatsApp|Slackbot|TelegramBot|Discordbot|SkypeUriPreview|MicrosoftPreview|Iframely|Embedly|redditbot|Pinterest|Applebot/i.test(u))return;var h=location.hash&&location.hash.length>1?location.hash:"#pv-tgph";location.replace("/"+h);})();</script>
 <style>body{margin:0;padding:48px 24px;font:400 16px/24px Inter,-apple-system,"Segoe UI",Arial,sans-serif;color:#3F4D62;background:#fff}a{color:#0066FF;font-weight:700}</style></head>
-<body><p>Opening <a href="/#ga-partner-hub">Partner Hub</a> in the Trading Grid Innovation Guide H2 2026.</p></body></html>
+<body><p>Opening <a href="/#pv-tgph">Partner Hub: Faster, more transparent partner onboarding</a> in the Trading Grid Innovation Guide H2 2026.</p></body></html>
